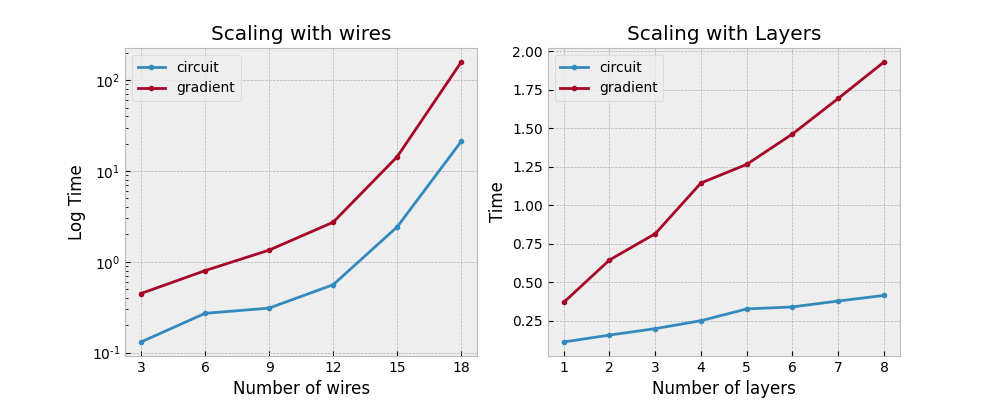
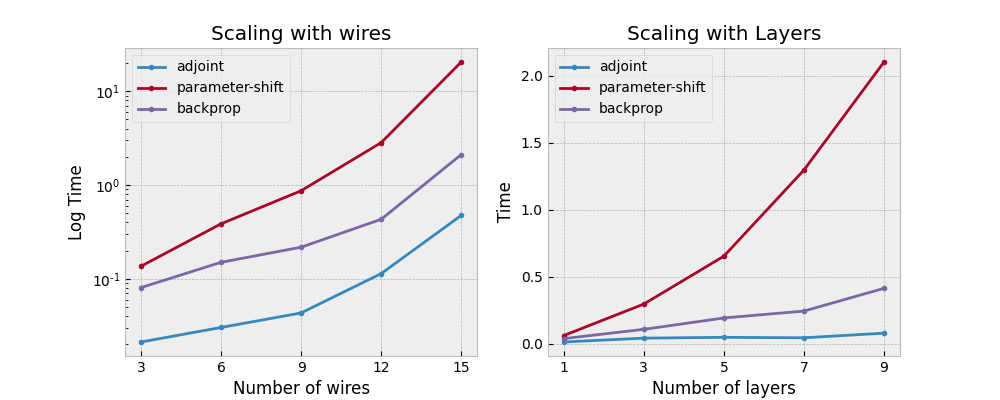
revamped benchmarking file

diff --git a/demonstrations/adjoint_diff_benchmarking.py b/demonstrations/adjoint_diff_benchmarking.py
@@ -23,89 +23,110 @@ from pennylane import numpy as np
 
 plt.style.use("bmh")
 
-rng = np.random.default_rng(seed=42)
+n_samples = 5
 
-# Scaling over wires section
+def get_time(qnode, params):
+    globals_dict = {'grad': qml.grad, 'circuit': qnode, 'params': params}
+    return timeit.timeit("grad(circuit)(params)", globals=globals_dict, number=n_samples)
 
-n_wires_ls = [3, 6,9,12,15, 18]
+def wires_scaling(n_wires, n_layers):
 
-n_layers = 5
+    rng = np.random.default_rng(seed=42)
 
-t_exec_wires = []
-t_grad_wires = []
+    t_adjoint = []
+    t_ps = []
+    t_backprop = []
 
-for i_wires in n_wires_ls:
-    
-    dev = qml.device("lightning.qubit", wires=i_wires)
-    
-    @qml.qnode(dev, diff_method="adjoint")
-    def circuit(params):
-        qml.StronglyEntanglingLayers(params, wires=range(i_wires))
+    def circuit(params, wires):
+        qml.StronglyEntanglingLayers(params, wires=range(wires))
         return qml.expval(qml.PauliZ(0) @ qml.PauliZ(1) @ qml.PauliZ(2))
+
+    for i_wires in n_wires:
+        
+        dev = qml.device("lightning.qubit", wires=i_wires)
+        dev_python = qml.device("default.qubit", wires=i_wires)
+        
+        circuit_adjoint = qml.QNode(lambda x: circuit(x, wires=i_wires), dev, diff_method="adjoint")
+        circuit_ps = qml.QNode(lambda x: circuit(x, wires=i_wires), dev, diff_method="parameter-shift")
+        circuit_backprop = qml.QNode(lambda x: circuit(x, wires=i_wires), dev_python, diff_method="backprop")
+
+        # set up the parameters
+        param_shape = qml.StronglyEntanglingLayers.shape(n_wires=i_wires, n_layers=n_layers)
+        params = rng.standard_normal(param_shape, requires_grad=True)
+
+        t_adjoint.append(get_time(circuit_adjoint, params))
+        t_backprop.append(get_time(circuit_backprop, params))
+        t_ps.append(get_time(circuit_ps, params))
+
+    return t_adjoint, t_backprop, t_ps
+
+
+def layers_scaling(n_wires, n_layers):
     
-    # set up the parameters
-    param_shape = qml.StronglyEntanglingLayers.shape(n_wires=i_wires, n_layers=n_layers)
-    params = rng.standard_normal(param_shape, requires_grad=True)
-    
-    ti_exec = timeit.timeit("circuit(params)", globals=globals(), number=100)
-    t_exec_wires.append(ti_exec)
-    
-    ti_grad = timeit.timeit("qml.grad(circuit)(params)", globals=globals(), number=100)
-    t_grad_wires.append(ti_grad)
+    rng = np.random.default_rng(seed=42)
 
+    dev = qml.device("lightning.qubit", wires=n_wires)
+    dev_python = qml.device('default.qubit', wires=n_wires)
 
+    t_adjoint = []
+    t_ps = []
+    t_backprop = []
 
-# Scaling over layers section
-
-n_wires = 9
-dev = qml.device("lightning.qubit", wires=n_wires)
-
-n_layers_ls = [1,2,3,4,5,6,7,8]
-
-t_exec_layers = []
-t_grad_layers = []
-
-for i_layers in n_layers_ls:
-
-    @qml.qnode(dev, diff_method="adjoint")
     def circuit(params):
         qml.StronglyEntanglingLayers(params, wires=range(n_wires))
-        return qml.expval(qml.PauliZ(0) @ qml.PauliZ(1) @ qml.PauliZ(2) @ qml.PauliZ(3))
+        return qml.expval(qml.PauliZ(0) @ qml.PauliZ(1) @ qml.PauliZ(2))
+
+    circuit_adjoint = qml.QNode(circuit, dev, diff_method="adjoint")
+    circuit_ps = qml.QNode(circuit, dev, diff_method="parameter-shift")
+    circuit_backprop = qml.QNode(circuit, dev_python, diff_method="backprop")
+
+    for i_layers in n_layers:
+
+        # set up the parameters
+        param_shape = qml.StronglyEntanglingLayers.shape(n_wires=n_wires, n_layers=i_layers)
+        params = rng.standard_normal(param_shape, requires_grad=True)
+        
+        t_adjoint.append(get_time(circuit_adjoint, params))
+        t_backprop.append(get_time(circuit_backprop, params))
+        t_ps.append(get_time(circuit_ps, params))
+
+    return t_adjoint, t_backprop, t_ps
+
+if __name__ == "__main__":
+
+    layers_list= [1, 3, 5, 7, 9]
+    n_wires = 5
+    adjoint_layers, backprop_layers, ps_layers = layers_scaling(n_wires, layers_list)
+
     
-    # set up the parameters
-    param_shape = qml.StronglyEntanglingLayers.shape(n_wires=n_wires, n_layers=i_layers)
-    params = rng.standard_normal(param_shape, requires_grad=True)
-    
-    ti_exec = timeit.timeit("circuit(params)", globals=globals(), number=100)
-    t_exec_layers.append(ti_exec)
-    
-    ti_grad = timeit.timeit("qml.grad(circuit)(params)", globals=globals(), number=100)
-    t_grad_layers.append(ti_grad)
+    wires_list = [3, 6, 9, 12, 15]
+    n_layers = 3
+    adjoint_wires, backprop_wires, ps_wires = wires_scaling(wires_list, n_layers)
+    # Generating the graphic
 
-# Generating the graphic
+    fig, (ax1, ax2) = plt.subplots(1, 2, figsize=(10, 4))
 
-fig, (ax1, ax2) = plt.subplots(1, 2, figsize=(10, 4))
+    ax1.plot(wires_list, adjoint_wires, '.-', label="adjoint")
+    ax1.plot(wires_list, ps_wires, '.-', label="parameter-shift")
+    ax1.plot(wires_list, backprop_wires, '.-', label="backprop")
 
-ax1.plot(n_wires_ls, t_exec_wires, '.-', label="circuit")
-ax1.plot(n_wires_ls, t_grad_wires, '.-', label="gradient")
+    ax1.legend()
 
-ax1.legend()
+    ax1.set_xlabel("Number of wires")
+    ax1.set_xticks(wires_list)
+    ax1.set_ylabel("Log Time")
+    ax1.set_yscale("log")
+    ax1.set_title("Scaling with wires")
 
-ax1.set_xlabel("Number of wires")
-ax1.set_xticks(n_wires_ls)
-ax1.set_ylabel("Log Time")
-ax1.set_yscale("log")
-ax1.set_title("Scaling with wires")
+    ax2.plot(layers_list, adjoint_layers, '.-', label="adjoint")
+    ax2.plot(layers_list, ps_layers, '.-', label="parameter-shift")
+    ax2.plot(layers_list, backprop_layers, '.-', label="backprop")
 
-ax2.plot(n_layers_ls, t_exec_layers, '.-', label="circuit")
-ax2.plot(n_layers_ls, t_grad_layers, '.-', label="gradient")
+    ax2.legend()
 
-ax2.legend()
+    ax2.set_xlabel("Number of layers")
+    ax2.set_xticks(layers_list)
+    ax2.set_ylabel("Time")
+    ax2.set_title("Scaling with Layers")
 
-ax2.set_xlabel("Number of layers")
-ax2.set_ylabel("Time")
-ax2.set_title("Scaling with Layers")
-
-plt.savefig("adjoint_diff/scaling.png")
-
-
+    plt.savefig("adjoint_diff/scaling.png")
